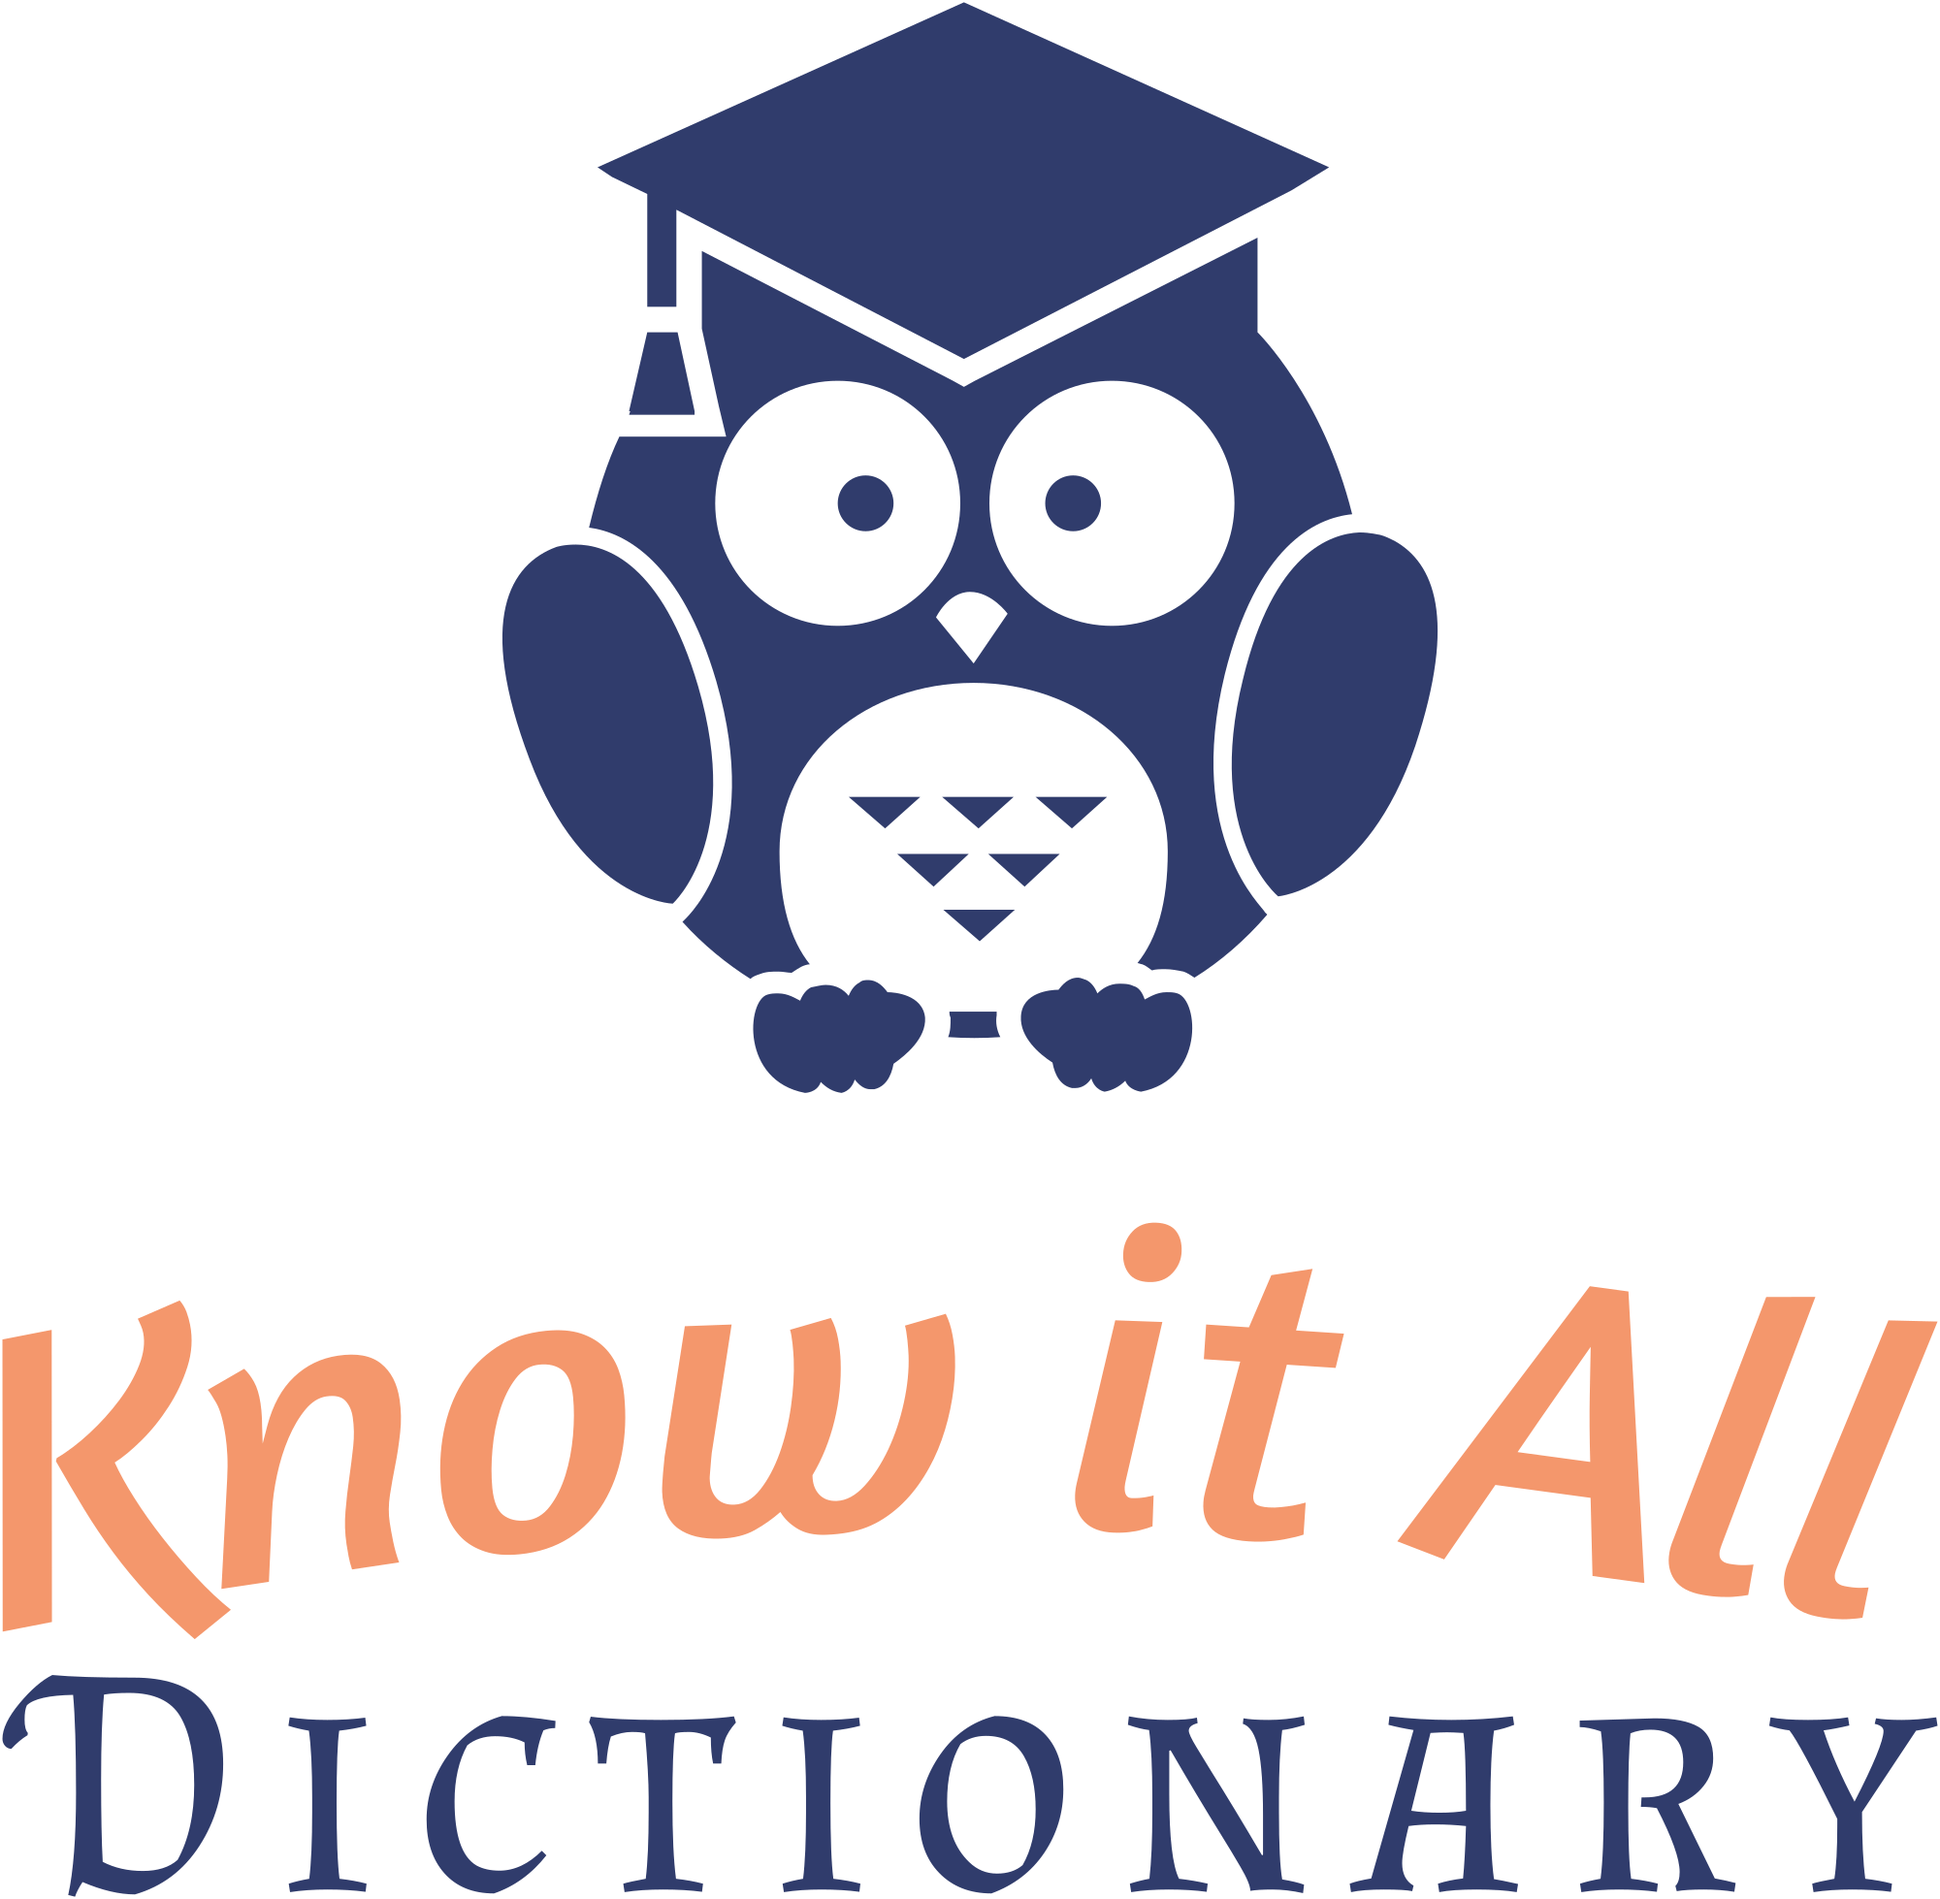
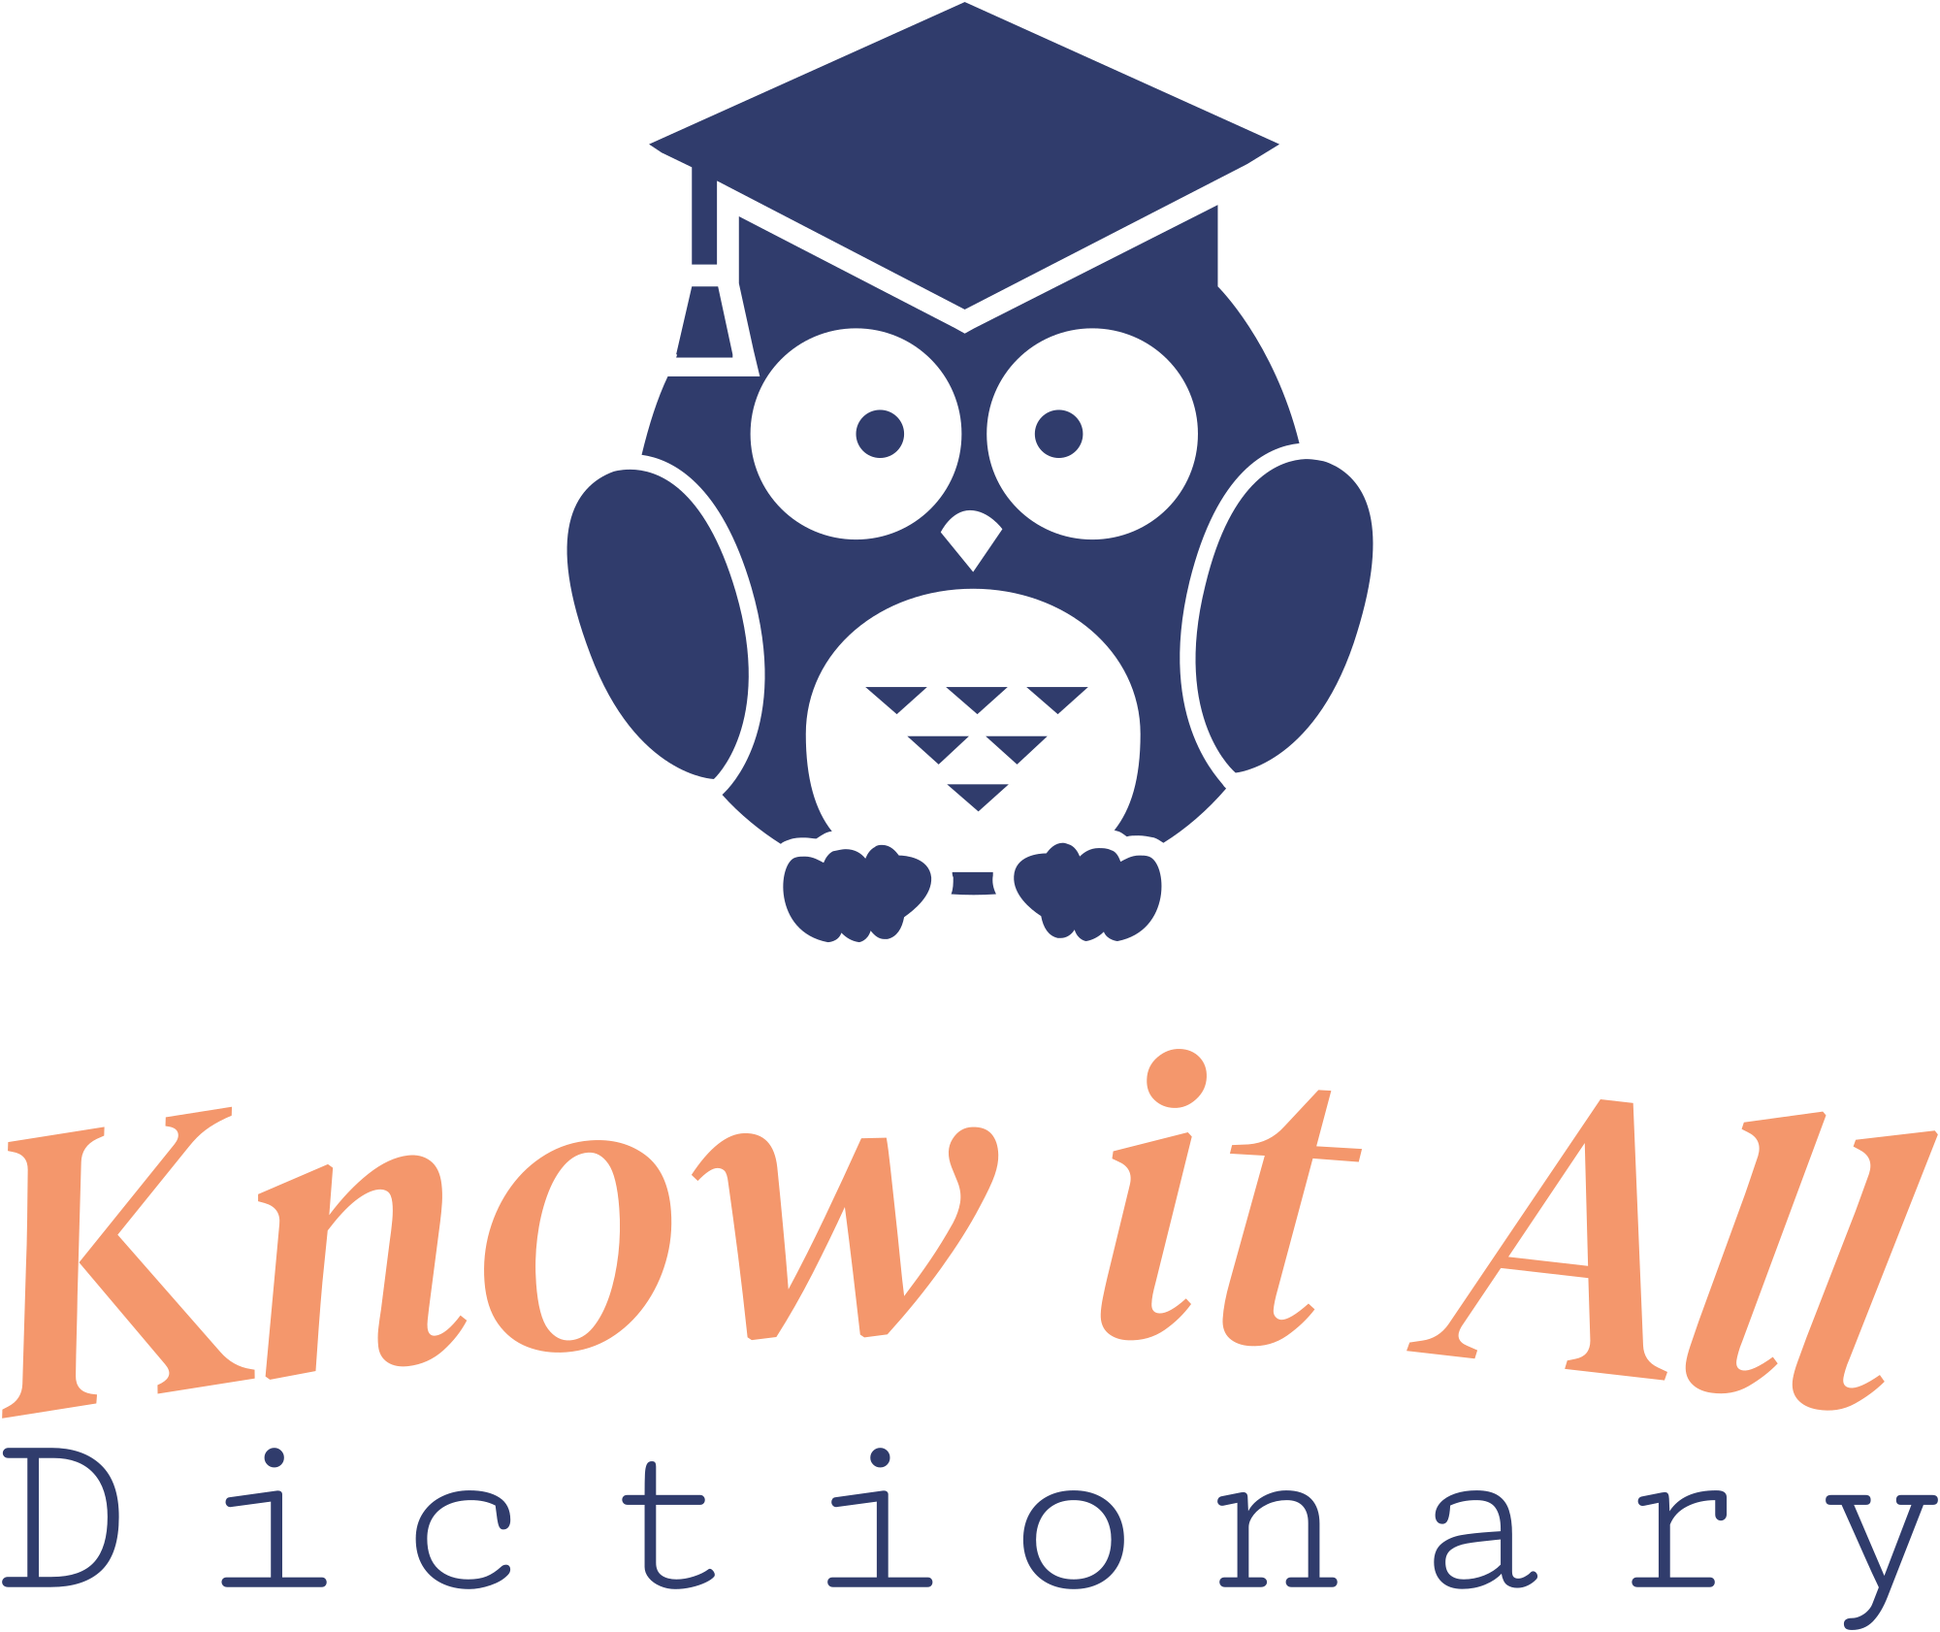
little changes

diff --git a/src/index.css b/src/index.css
@@ -13,7 +13,7 @@ body{
     background-color: #fbe8a6;
 }
 .logo{
-    margin: 1rem;
+    margin: .5rem;
    }
 input::placeholder{
     color: black;
@@ -24,28 +24,38 @@ input::placeholder{
 }
 .form-control{
     font-size: 20px;
+    border-radius: 10px;
+    border: 1px solid rgb(22, 27, 46, .4);
 }
 .btn{
-    background-color:#f4976c;
+    background-color:rgb(244, 151, 108);
     width: 15%;
+    border-color: rgb(22, 27, 46, .4) rgb(22, 27, 46, .4) rgb(22, 27, 46, .4) transparent;
+    border-style: solid;
+    border-width: 1px;
+    border-radius: 10px;
+    transition: ease-in-out 500ms;
+}
+.btn:hover{
+    background-color:rgb(180, 223, 229);
 }
 .heart{
-    color: #161b2e;
+    color: rgb(22, 27, 46);
     font-size: 26px;
 }
 .input-group{
-    box-shadow: 2px 4px 20px rgba(0, 0, 0, 0.2);
-    border: .5px solid rgba(129, 127, 127, 0.842);
-    border-radius: 5px; 
+    box-shadow: 2px 4px 20px rgba(0, 0, 0, 0.3);
+    border-radius: 10px; 
     max-width: 600px;
     position: relative;
     margin: 0 auto;   
 }
 .hint{
-    font-size: 15px;
-    font-family: "Fira Code", monospace;
-    font-weight: 500;
-    color: #292c3ae7;
+    font-size: 16px;
+    font-family: "Cutive Mono", monospace;
+    font-weight: 600;
+    letter-spacing: -1px;
+    color: rgba(25, 30, 49, 0.795);
 }
 input:focus, input.form-control:focus {
     outline:none !important;
@@ -61,7 +71,7 @@ input:focus, input.form-control:focus {
     text-align: center;
     margin: 30px 10px;
     border-radius: 8px;
-    padding: 20px;
+    padding: 20px 10px 20px 10px;
     box-shadow: 2px 4px 20px rgba(0, 0, 0, 0.2);
 }
 .Results .main-word{
@@ -72,23 +82,31 @@ input:focus, input.form-control:focus {
 }
 .word-result{
     font-size: 38px;
+    height:80px;
     color: rgb(255, 255, 255);
     text-transform: capitalize;
     font-family: "Playfair Display", serif;
     font-weight: 700;
 }
+.Phonetic {
+    height: 50px;
+}
 .phonetic-word{
-    color:rgb(255, 255, 255);
-    font-size: 26px;
+    color:rgba(255, 255, 255, 0.801);
+    font-family: "Cutive Mono", monospace;
+    font-size: 20px;
 }
 .listen{
-    color: #161b2e;
-    font-size: 22px;
-
+    color: rgb(22, 27, 46);
+    font-size: 24px;
+    padding:5px 15px;
+    border: 1px solid rgb(22, 27, 46);
+    border-radius: 10px;
+    background-color: rgb(244, 151, 108);
+    transition: ease-in-out 500ms;
 }
-button {
-    background-color: #f4976c;
-
+.listen:hover{
+    background-color:rgb(180, 223, 229);
 }
 .Results section{
     text-align: start;

diff --git a/src/Results.js b/src/Results.js
@@ -11,16 +11,17 @@ export default function Results(props) {
         <div className="Results">
             
             <section className="main-word">
-                <div className=" row">
+                <div className=" row ms-1 ps-1">
                 <div className="word-result col">
                 {props.results[0].word}
                 </div>
+                Try finding one def  1 noun 1 verb
                 </div>
                 {props.results[0].phonetics.map(function(phonetic, index) {
                     
                     return (
-                        <div className="row d-flex">
-                        <div className="hear-see col-12" key={index}>
+                     <div className="row d-flex">
+                     <div className="hear-see col-12" key={index}>
                             <Phonetic phonetic={phonetic} />
                             </div>
                             </div>

diff --git a/src/Dictionary.js b/src/Dictionary.js
@@ -44,10 +44,10 @@ export default function Dictionary(props) {
        <div className="hint">Find synonyms, definitions, antonyms, and related words</div>
         <form onSubmit={handleSubmit} className="input-group text-center mt-3">
         <input type="search" placeholder="learn it, know it!" onChange={handleKeyword} className="form-control p-2" aria-label="word-search"/>
-        <button class="btn btn-search" type="submit"><i class="bi bi-search-heart heart"></i></button>
+        <span class="btn btn-search" type="submit"><i class="bi bi-search-heart heart"></i></span>
 
         </form>
-        <div className="text-center"id="logo" ><img src={logo} className='logo' alt='logo' width={100}/></div>
+        <div className="text-center"id="logo" ><img src={logo} className='logo' alt='logo' width={140}/></div>
                
         </section>
         <Results results={results} />

diff --git a/src/Phonetic.js b/src/Phonetic.js
@@ -4,13 +4,13 @@ export default function Phonetic(props) {
     return (
         <div className="Phonetic">
             <div className="d-flex justify-content-end">
-            <div className="phonetic-word col-3">
+            <div className="phonetic-word col-2">
               {props.phonetic.text}
               </div>
              
-            <div className="col-2  ps-2">
-             <button><a href={props.phonetic.audio} target="_blank"><i class="bi bi-music-note-list listen"></i>  
-            </a></button> 
+            <div className="col-2">
+             <div className="hear"><a href={props.phonetic.audio} target="_blank"><i class="bi bi-music-note-list listen"></i>  
+            </a></div> 
             </div>
 
             </div>

diff --git a/src/Meaning.js b/src/Meaning.js
@@ -5,12 +5,13 @@ import Example from "./Example";
 export default function Meaning(props) {
     return (
       <div className="meanings">
+       
               
             {props.meaning.definitions.map(function(definition, index) {
                 return (
                   
                   <div key={index} className="definition">
-                
+                  
                     <div className="defBox">
                     <div className="part-Speech">
                   {props.meaning.partOfSpeech}
